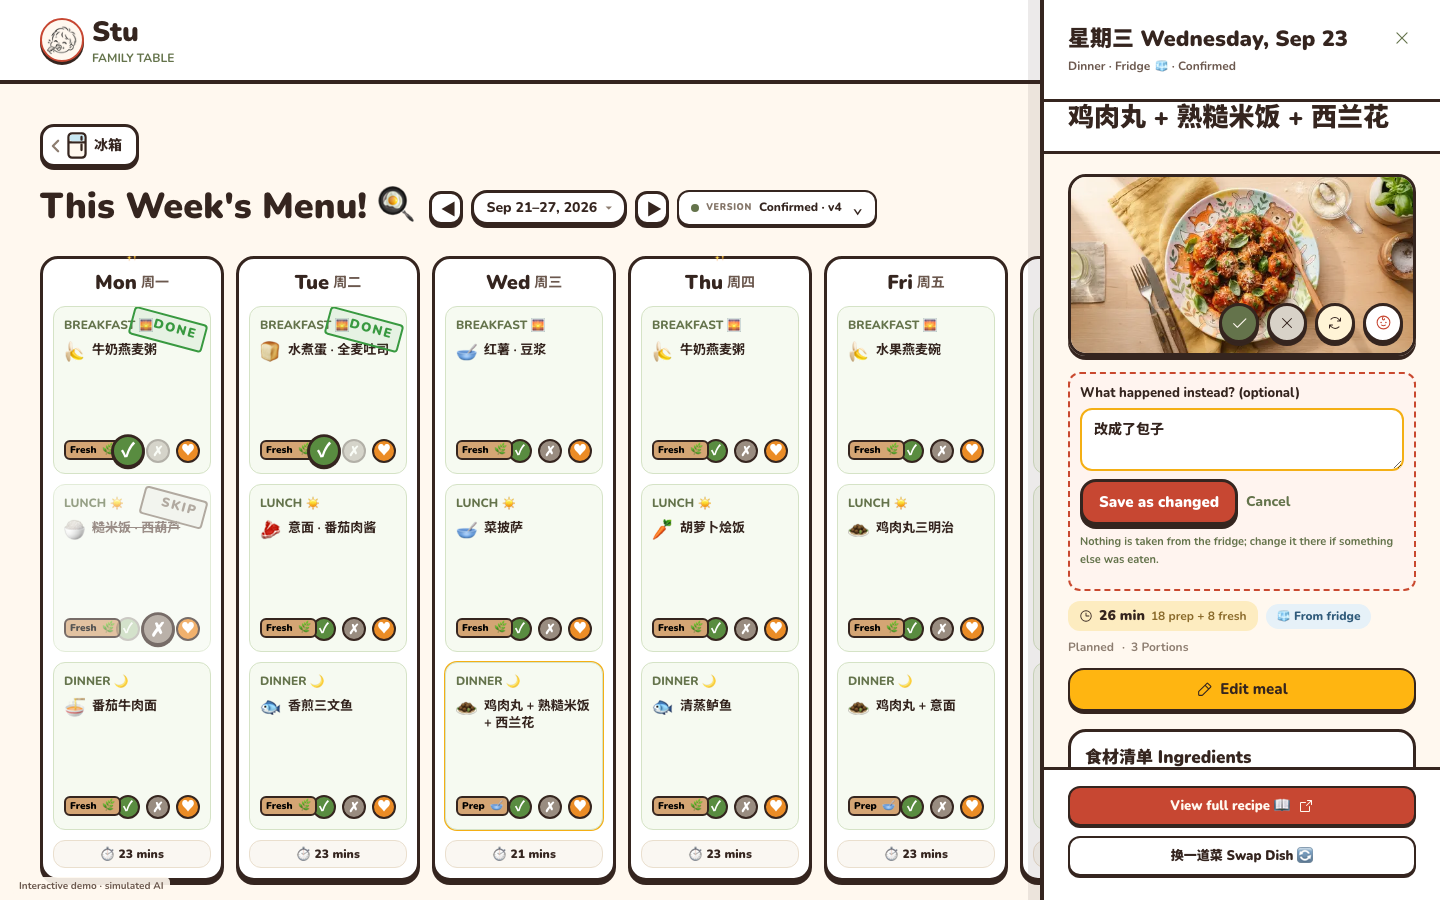
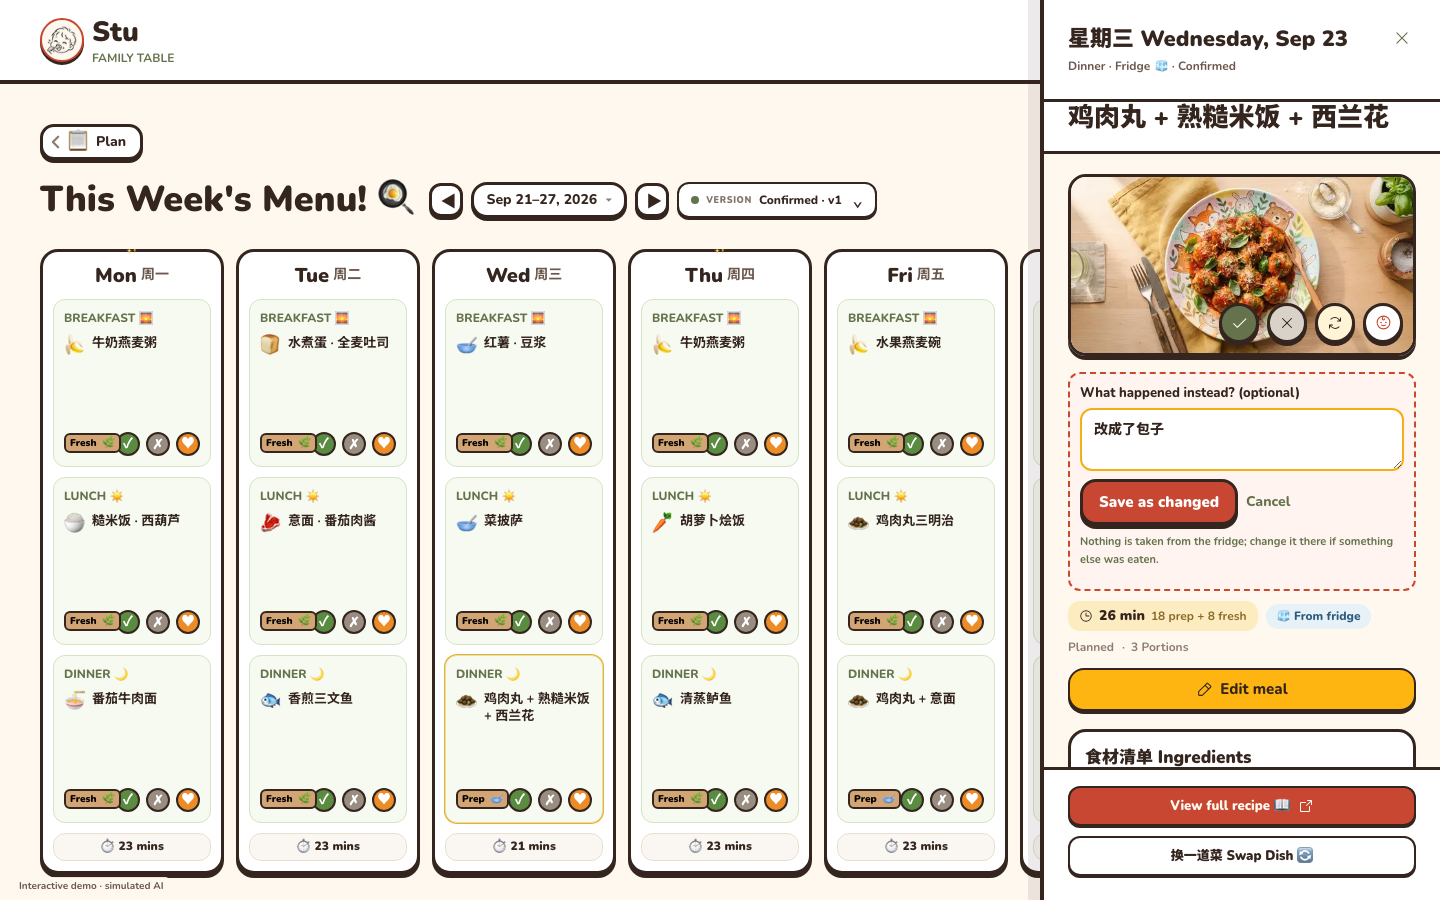
README: the Calendar's buttons and confirming at once

diff --git a/README.md b/README.md
@@ -20,7 +20,8 @@ Pushing to `main` deploys to Google Cloud Run (see [Deploy](#deploy)).
 Freezer and fridge side by side, foods grouped on shelves by food group (or
 sorted by date or name), as many small cards to a shelf as the screen fits.
 Beside it: the recipe book, the Calendar and the Plan. Every other page has the
-little fridge button back home. Drag a box between shelves or compartments;
+little fridge button back home; the Calendar, which sits between the plan and the
+shopping, goes back to Plan and on to Shopping & prep. Drag a box between shelves or compartments;
 tap it to edit, or take it out with its ×.
 
 ### 🔪 + Prep: cook ahead from what is in the fridge
@@ -68,7 +69,8 @@ household's rules (allergies, the child's age, time limits, repeats). Adjust it
 in chat (apply only the changes you pick) or by hand: a meal opens straight into
 editing, one card per dish (source: fridge, recipe or make your own; portions;
 food groups; ingredients; steps; time). Leave blanks and Stu fills them when you
-save; what it fills stays with the meal. Confirm, then shop and prep.
+save; what it fills stays with the meal. Confirm, and the week is confirmed at once: meals can be marked on the Calendar
+while Stu prepares the shopping list and prep day in the background.
 
 ![Editing a meal while planning](docs/images/readme/plan-drawer.png)
 
